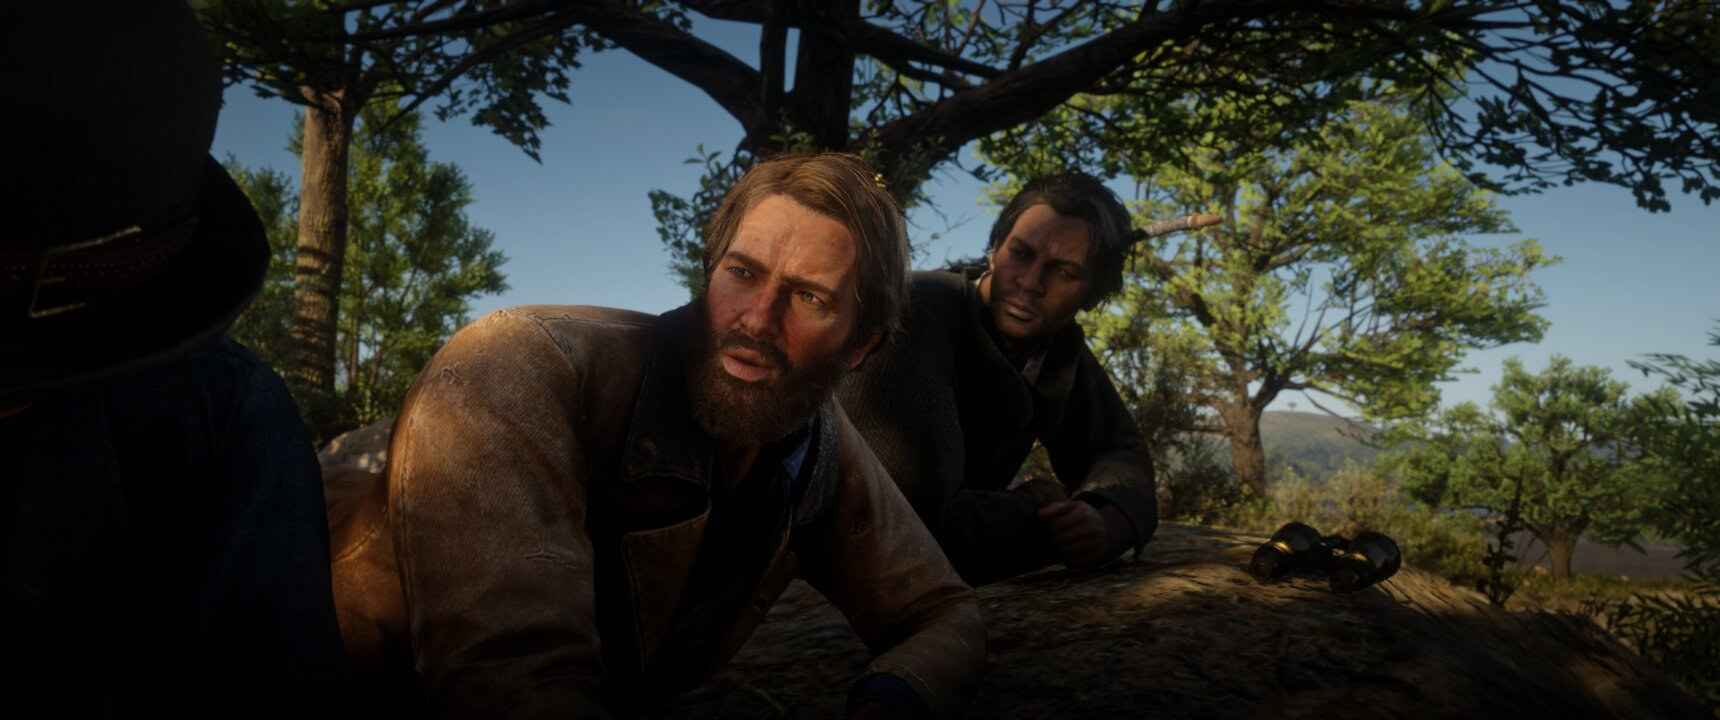
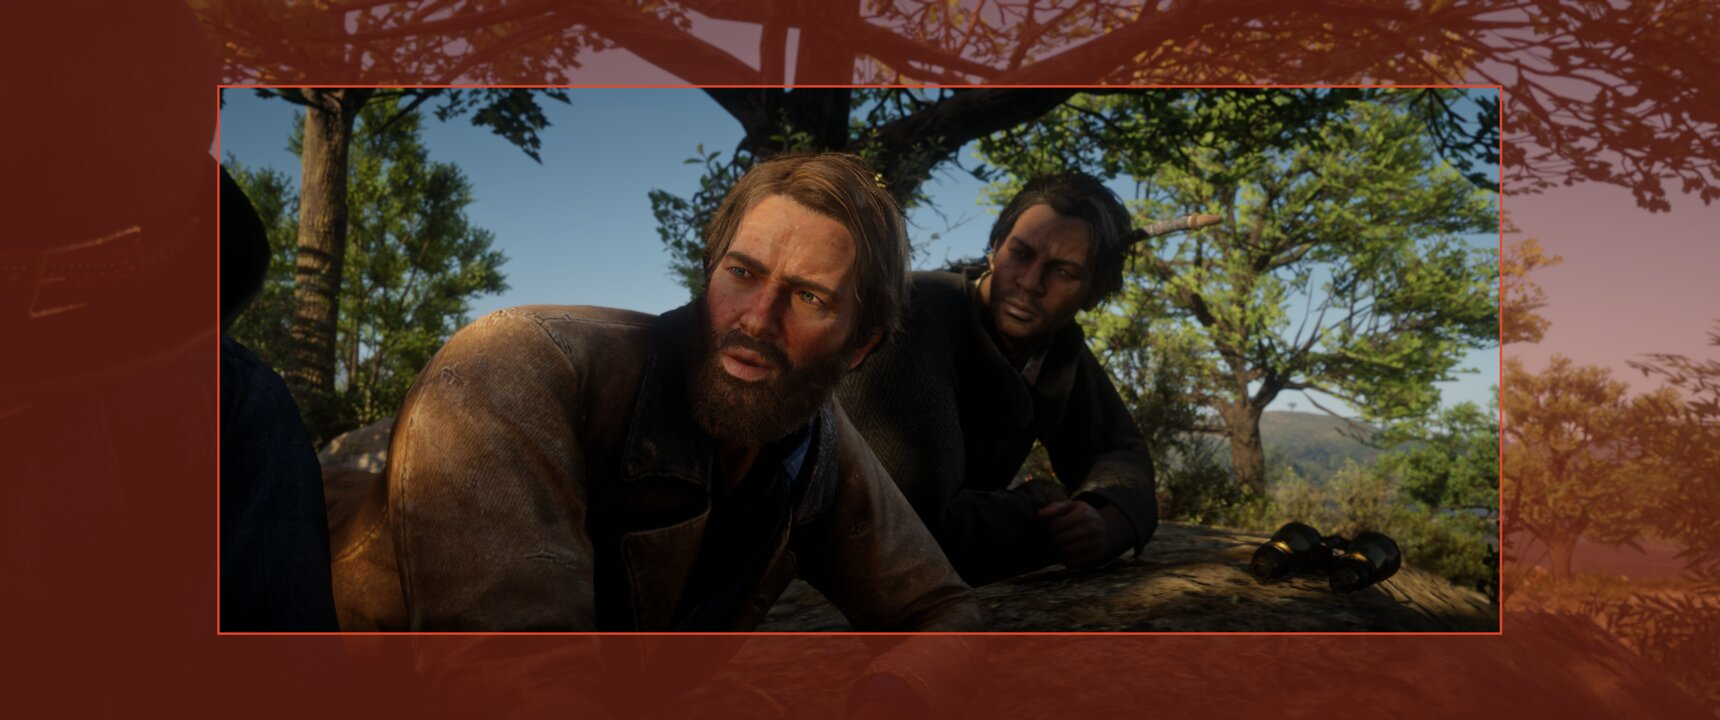
Mark the intended shot in the bars-removed image

diff --git a/README.md b/README.md
@@ -40,7 +40,8 @@ The game as shipped: bars on all four sides.
 ![The game as shipped](images/1-game.jpg)
 
 Bars removed, as other mods do: the whole screen is used, but the camera is
-unchanged, so the shot shows more of the scene than it was composed for.
+unchanged, so the shot shows more of the scene than it was composed for. The
+tinted area is outside the intended shot.
 
 ![Bars removed](images/2-bars_removed.jpg)
 
